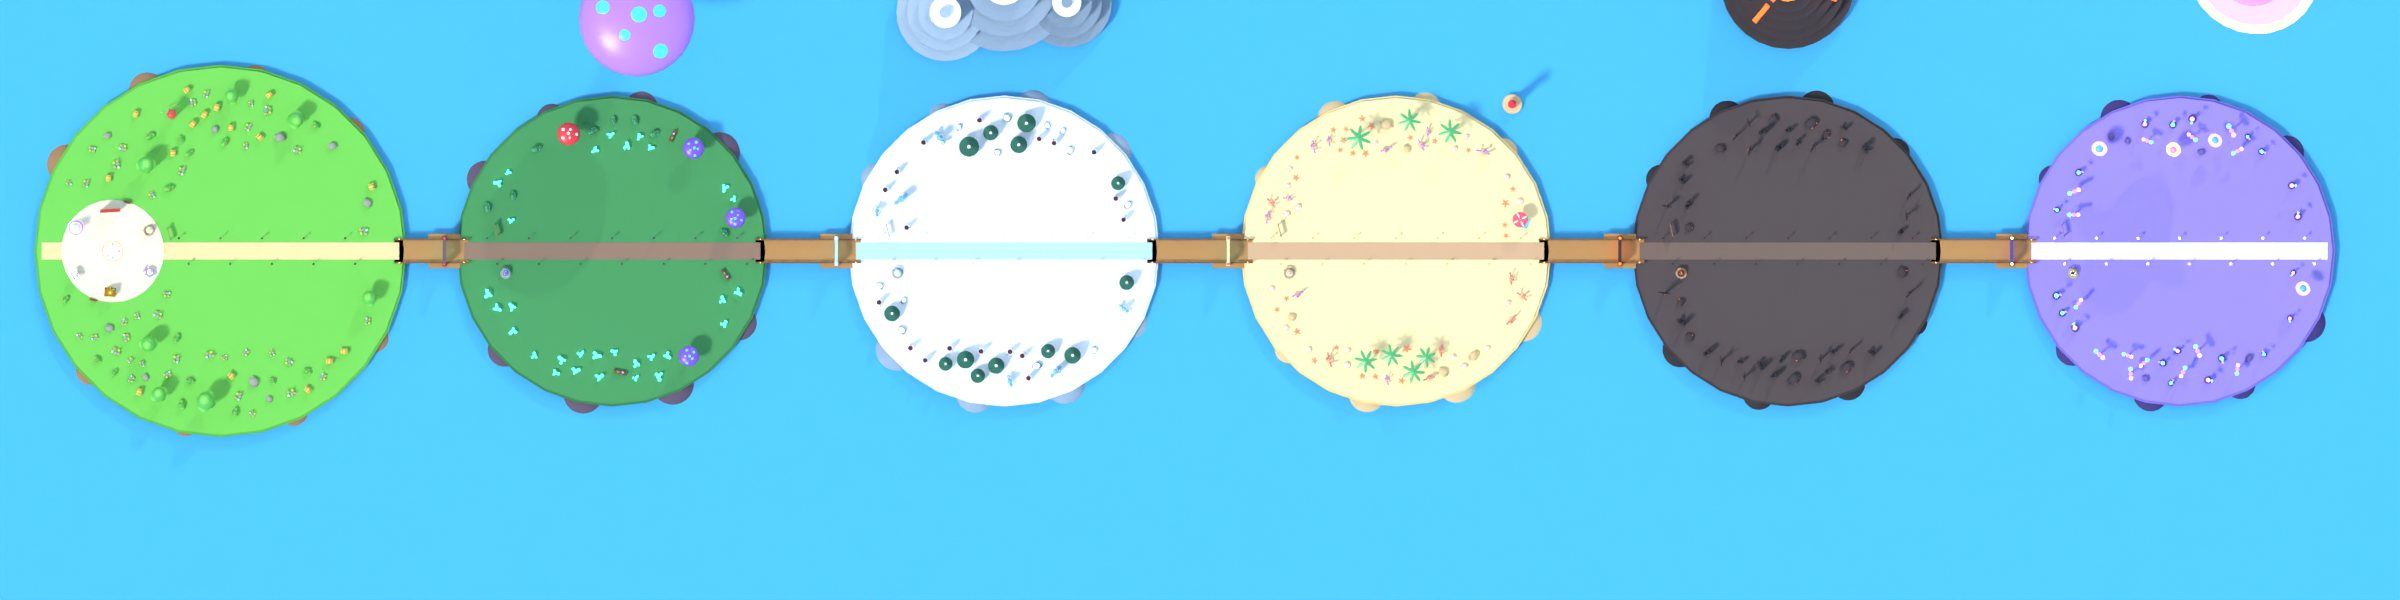
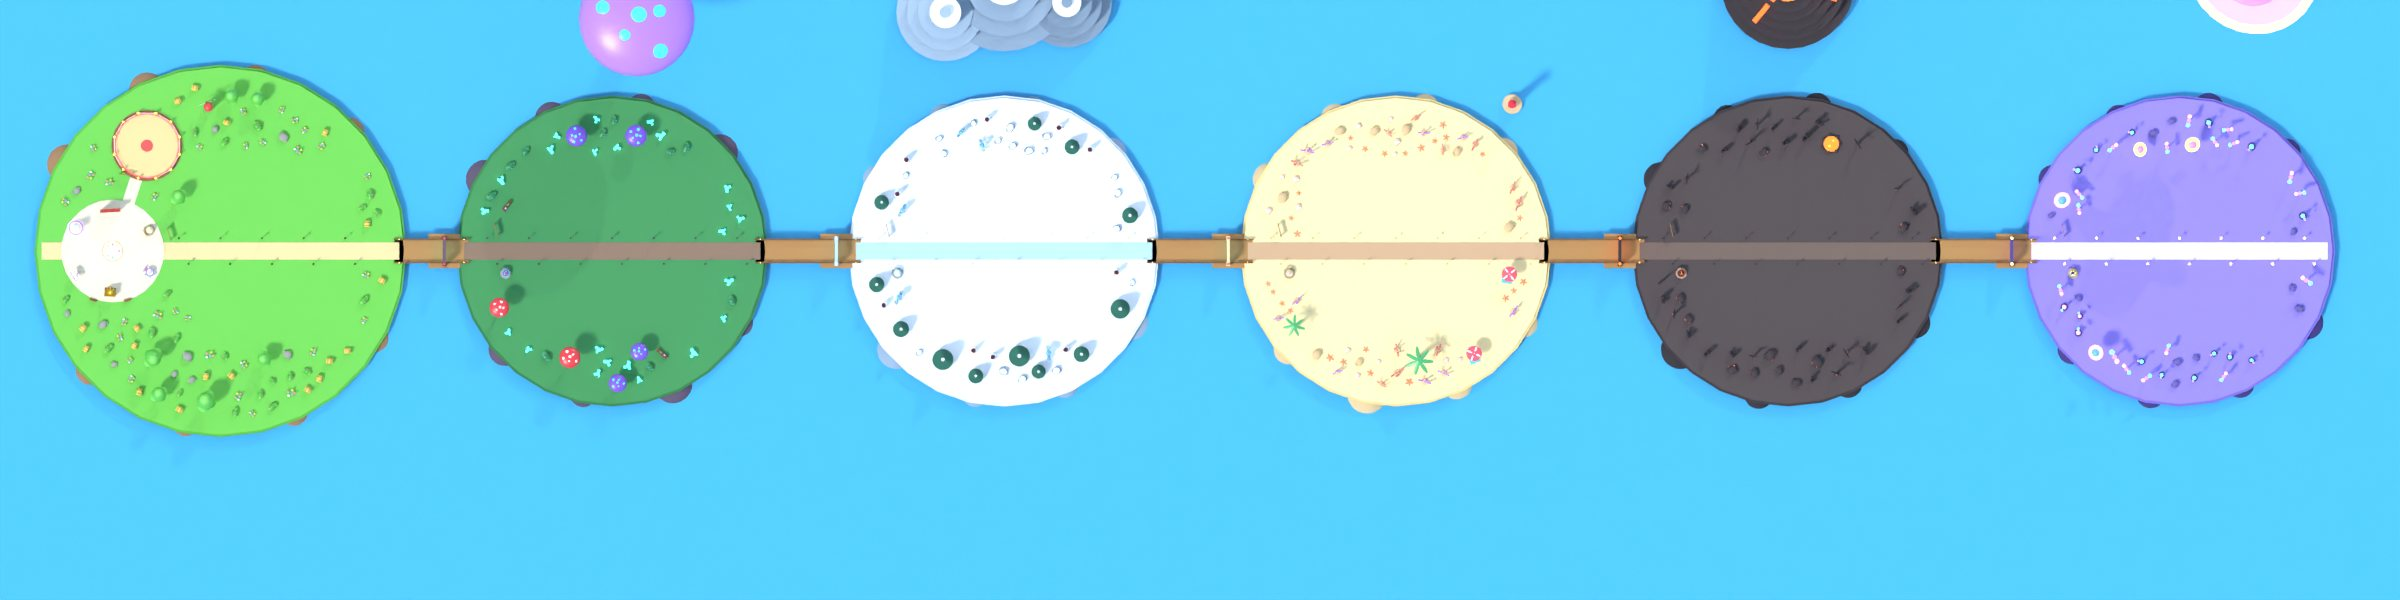
Pet Expedition: map render with the Pet Ring; PetRing preview shot in render.py
Claude-Session: https://claude.ai/code/session_01PfuNpF7qFiaYZAcJHqtv6B

diff --git a/games/pet-expedition/models/render.py b/games/pet-expedition/models/render.py
@@ -450,6 +450,8 @@ def job_world(sc, only_top=False):
         _shot(sc, os.path.join(OUT, "world", f"{a}.jpg"), bl(cx - 120, 150, 260), bl(cx + 5, 0, -10), lens=24)
     hx, _, hz = G.WORLD.HUB
     _shot(sc, os.path.join(OUT, "world", "MeadowHub.jpg"), bl(hx + 75, 38, 0), bl(hx - 10, 4, 0), lens=24)
+    ax, _, az = G.WORLD.ARENA
+    _shot(sc, os.path.join(OUT, "world", "PetRing.jpg"), bl(ax - 30, 34, az + 62), bl(ax, 2, az), lens=24)
 
 
 def sheet(files, out, cols=8, cell=256):
